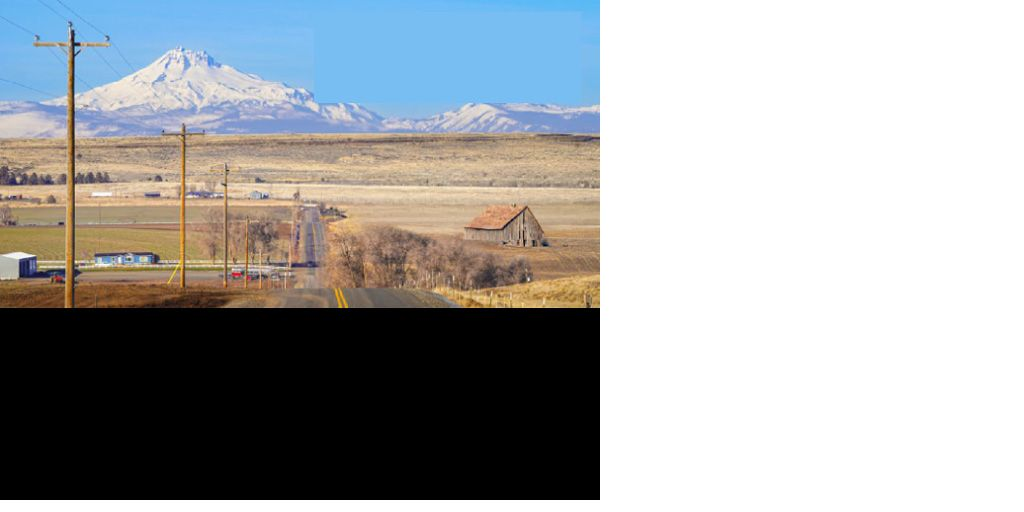
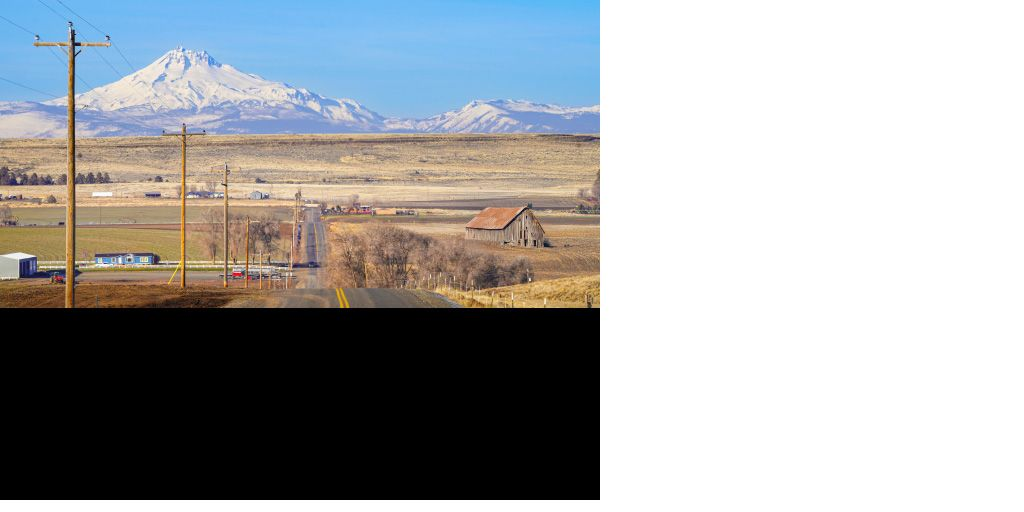
Add files via upload

diff --git a/mtn/300x250/WSPA-mtn-300x250.js b/mtn/300x250/WSPA-mtn-300x250.js
@@ -728,7 +728,7 @@ if (reversed == null) { reversed = false; }
 	this.instance_1 = new lib.CTA();
 	this.instance_1.setTransform(215.75,230.05,0.588,0.588,0,0,0,0.1,0.1);
 
-	this.timeline.addTween(cjs.Tween.get(this.instance_1).wait(71).to({scaleX:0.7644,scaleY:0.7644,x:215.8,y:230.1},3).to({scaleX:0.588,scaleY:0.588,x:215.75,y:230.05},5).wait(40));
+	this.timeline.addTween(cjs.Tween.get(this.instance_1).wait(95).to({scaleX:0.7644,scaleY:0.7644,x:215.8,y:230.1},3).to({scaleX:0.588,scaleY:0.588,x:215.75,y:230.05},5).wait(16));
 
 	// HEAD1
 	this.instance_2 = new lib.HEAD1();
@@ -742,14 +742,14 @@ if (reversed == null) { reversed = false; }
 	this.instance_3.setTransform(734.2,469.4,1,1,0,0,0,1034.2,469.4);
 	this.instance_3._off = true;
 
-	this.timeline.addTween(cjs.Tween.get(this.instance_3).wait(23).to({_off:false},0).to({x:1034.2},14,cjs.Ease.quintOut).wait(82));
+	this.timeline.addTween(cjs.Tween.get(this.instance_3).wait(37).to({_off:false},0).to({x:1034.2},14,cjs.Ease.quintOut).wait(68));
 
 	// SUB
 	this.instance_4 = new lib.SUB();
 	this.instance_4.setTransform(734.2,469.4,1,1,0,0,0,1034.2,469.4);
 	this.instance_4._off = true;
 
-	this.timeline.addTween(cjs.Tween.get(this.instance_4).wait(51).to({_off:false},0).to({x:1034.2},14,cjs.Ease.quintOut).wait(54));
+	this.timeline.addTween(cjs.Tween.get(this.instance_4).wait(65).to({_off:false},0).to({x:1034.2},14,cjs.Ease.quintOut).wait(40));
 
 	// BKGD
 	this.instance_5 = new lib.mtnbkgd();
